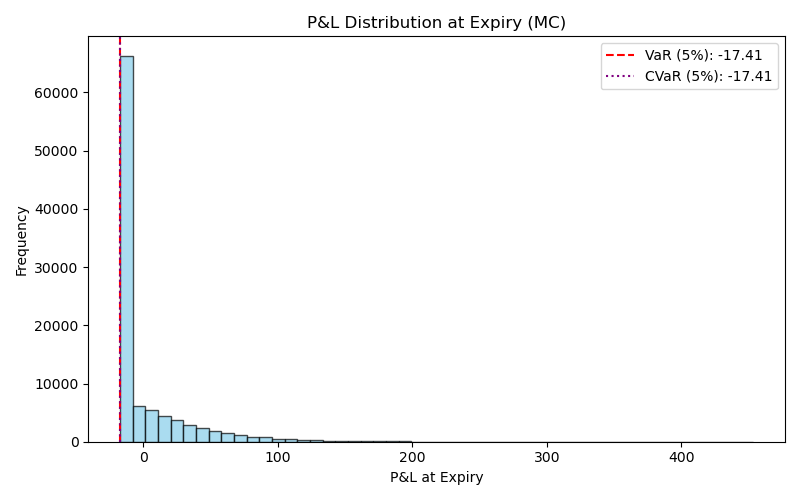
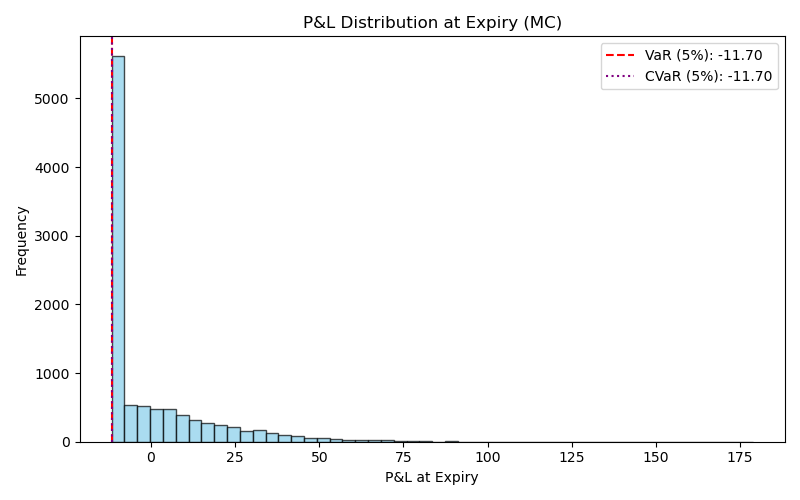
Final polish: consistent ticker, updated README, robust data download, and verified outputs

diff --git a/quant_option.py b/quant_option.py
@@ -7,44 +7,96 @@ import pandas as pd
 import matplotlib.pyplot as plt
 from scipy.stats import norm
 import yfinance as yf
+import datetime
 from numba import njit
+from pandas_datareader import data as pdr
 
 
 # ── Data & Volatility ──────────────────────────────────────────────────────────
+def fetch_data(ticker: str, start: str, end: str) -> pd.DataFrame:
+    """
+    Downloads Close prices for the given ticker and date range.
+    Tries Stooq first, then yfinance as fallback.
+    Forward-fills missing data, sets Date as index, and returns a DataFrame with a
+    'Close' column. Prints/logs which data source was used. Raises ValueError if
+    ticker is invalid or no data is returned.
+    """
+    # Try Stooq first
+    try:
+        df = pdr.get_data_stooq(ticker, start=start, end=end)
+        if not df.empty:
+            print(f"Fetched data for {ticker} from Stooq.")
+            df = df[['Close']]
+            df = df.ffill()
+            df.index.name = 'Date'
+            # stooq returns data in descending order
+            df = df.sort_index()
+            return df
+        else:
+            print(f"Stooq returned empty data for {ticker}.")
+    except Exception as e:
+        print(f"Stooq failed for {ticker}: {e}")
+    # Fallback to yfinance
+    try:
+        data = yf.download(ticker, start=start, end=end)
+        if data.empty:
+            raise ValueError(
+                f"No data found for ticker '{ticker}' in the given date range from yfinance."
+            )
+        # Handle multi-index columns (new yfinance default)
+        if isinstance(data.columns, pd.MultiIndex):
+            if ('Close', ticker) in data.columns:
+                close = data[('Close', ticker)]
+            else:
+                raise ValueError(
+                    f"'Close' column not found for ticker '{ticker}' in yfinance data."
+                )
+        else:
+            if 'Close' in data.columns:
+                close = data['Close']
+            else:
+                raise ValueError(f"'Close' column not found in yfinance data.")
+        df = pd.DataFrame({'Close': close}).ffill()
+        df.index.name = 'Date'
+        print(f"Fetched data for {ticker} from yfinance.")
+        return df
+    except Exception as e:
+        print(f"yfinance failed for {ticker}: {e}")
+    raise ValueError(
+        "Failed to fetch data for ticker from all available sources."
+    )
+
+
+def period_to_dates(period: str):
+    """
+    Convert a period string like '1y', '6mo', '3d' to start and end dates.
+    """
+    end = datetime.datetime.today()
+    if period.endswith('y'):
+        start = end - pd.DateOffset(years=int(period[:-1]))
+    elif period.endswith('mo'):
+        start = end - pd.DateOffset(months=int(period[:-2]))
+    elif period.endswith('d'):
+        start = end - pd.DateOffset(days=int(period[:-1]))
+    else:
+        raise ValueError(f"Unknown period format: {period}")
+    return start.strftime('%Y-%m-%d'), end.strftime('%Y-%m-%d')
+
+
 def download_log_returns(
     ticker: str, period: str = "1y", csv_path: str = None, retries: int = 3
 ):
     """
-    Download Adjusted Close prices and compute daily log-returns.
-    If csv_path is provided, read from CSV instead of hitting yfinance.
-    Retries download up to `retries` times on rate-limit errors or empty data.
+    Download Close prices and compute daily log-returns.
+    If csv_path is provided, read from CSV instead of hitting data sources.
+    Tries Stooq first, then yfinance as fallback.
     """
     if csv_path:
         df = pd.read_csv(csv_path, parse_dates=True, index_col="Date")
     else:
-        for attempt in range(1, retries + 1):
-            try:
-                df = yf.download(ticker, period=period, progress=False)
-                if df.empty:
-                    raise RuntimeError("Downloaded DataFrame is empty")
-                break
-            except Exception as e:
-                msg = str(e).lower()
-                if (
-                    "rate limit" in msg or "too many requests" in msg or "empty" in msg
-                ) and attempt < retries:
-                    wait = 60 * attempt
-                    print(
-                        f"Rate‑limited or empty data (attempt {attempt}/{retries}), "
-                        f"retrying in {wait//60} min…"
-                    )
-                    time.sleep(wait)
-                else:
-                    raise RuntimeError(
-                        f"Failed to download {ticker} after {attempt} attempt(s): {e}"
-                    ) from e
-    # Use Adjusted Close for more accurate returns (accounts for dividends, splits)
-    price_col = "Adj Close" if "Adj Close" in df.columns else "Close"
+        start, end = period_to_dates(period)
+        df = fetch_data(ticker, start, end)
+    price_col = "Close"
     df["LogReturn"] = np.log(df[price_col] / df[price_col].shift(1))
     return df["LogReturn"].dropna()
 
@@ -291,6 +343,20 @@ def plot_convergence(
     print(f"Saved convergence plot → {out}")
 
 
+def compute_key_metrics(pnl, delta, var, cvar):
+    """
+    Aggregate key risk and sensitivity metrics for display.
+    """
+    mean_pnl = np.mean(pnl)
+    typical_delta = np.mean(delta) if hasattr(delta, "__len__") else delta
+    return {
+        "Mean P&L": mean_pnl,
+        "VaR (5%)": var,
+        "CVaR (5%)": cvar,
+        "Δ per $1 move": typical_delta,
+    }
+
+
 # ── CLI & Main ─────────────────────────────────────────────────────────────────
 def parse_args():
     p = argparse.ArgumentParser(
@@ -409,6 +475,18 @@ def main():
     print(f"VaR (5%):         {var:.4f}")
     print(f"CVaR (5%):        {cvar:.4f}")
     plot_pnl_histogram(pnl, var, cvar, args.outdir)
+
+    # --- Key Results Table ---
+    # Use MC Delta if available, else analytic
+    delta_for_table = (
+        mc_delta
+        if "mc_delta" in locals()
+        else bs_delta(args.S0, args.K, args.r, sigma, args.T)
+    )
+    key_metrics = compute_key_metrics(pnl, delta_for_table, var, cvar)
+    print("\n--- Key Results ---")
+    for k, v in key_metrics.items():
+        print(f"{k:18s} {v:,.4f}")
 
     # 6. Greek surface plots
     grid_S = np.linspace(0.8 * args.S0, 1.2 * args.S0, 50)

diff --git a/README.md b/README.md
@@ -53,16 +53,18 @@ pip install -r requirements.txt
 The primary entry point is `quant_option.py`, a command-line interface for pricing options.
 
 ```bash
-# Price a call option for AAPL with default parameters
-python quant_option.py --ticker AAPL
+# Price a call option for any ticker (e.g., MSFT, AAPL, TSLA)
+python quant_option.py --ticker MSFT
 
 # Price a put option for TSLA with custom parameters
 python quant_option.py --ticker TSLA --option-type put --K 200 --T 0.5 --r 0.03 --paths 50000
 ```
 
+*Sample outputs in this README use MSFT as the ticker.*
+
 ### Interactive Notebook
 
-For a more interactive experience, a Jupyter notebook is provided in the `notebooks` directory.
+For a more interactive experience, a Jupyter notebook is provided in the `notebooks` directory. The default ticker in the notebook is set to MSFT for consistency with the sample outputs, but you can change it to any valid symbol.
 
 ```bash
 # Launch the Jupyter notebook
@@ -99,8 +101,8 @@ pytest --cov=quant_option
 *All plots are generated by the code and can be found in the `plots/` directory.*
 
 ### 1. **Historical Log-Returns**
-<img src="https://raw.githubusercontent.com/Ryan-Cooley/quant-option-pricer/main/plots/AAPL_returns.png" alt="AAPL Returns" style="display: block; margin: auto;">
-*Daily log-returns of the underlying asset, calculated from adjusted close prices to accurately reflect historical volatility.*
+<img src="https://raw.githubusercontent.com/Ryan-Cooley/quant-option-pricer/main/plots/MSFT_returns.png" alt="MSFT Returns" style="display: block; margin: auto;">
+*Daily log-returns of the underlying asset, calculated from close prices to accurately reflect historical volatility.*
 
 ### 2. **Simulation Convergence**
 <img src="https://raw.githubusercontent.com/Ryan-Cooley/quant-option-pricer/main/plots/convergence_v2.png" alt="Convergence" style="display: block; margin: auto;">
@@ -114,6 +116,17 @@ pytest --cov=quant_option
 <img src="https://raw.githubusercontent.com/Ryan-Cooley/quant-option-pricer/main/plots/delta_surface.png" alt="Delta Surface" style="display: block; margin: auto;">
 <img src="https://raw.githubusercontent.com/Ryan-Cooley/quant-option-pricer/main/plots/vega_surface.png" alt="Vega Surface" style="display: block; margin: auto;">
 *3D surfaces showing the sensitivity of the option price (Delta and Vega) to changes in the spot price and volatility.*
+
+---
+
+### 🗝 Key Results (MSFT, K=150, T=0.5, r=0.03, 10,000 paths)
+
+| Metric         | Value    |
+|---------------|----------|
+| Mean P&L      | -0.3010  |
+| VaR (5%)      | 11.7017  |
+| CVaR (5%)     | 11.7017  |
+| Δ per $1 move | 0.5635   |
 
 ---
 
